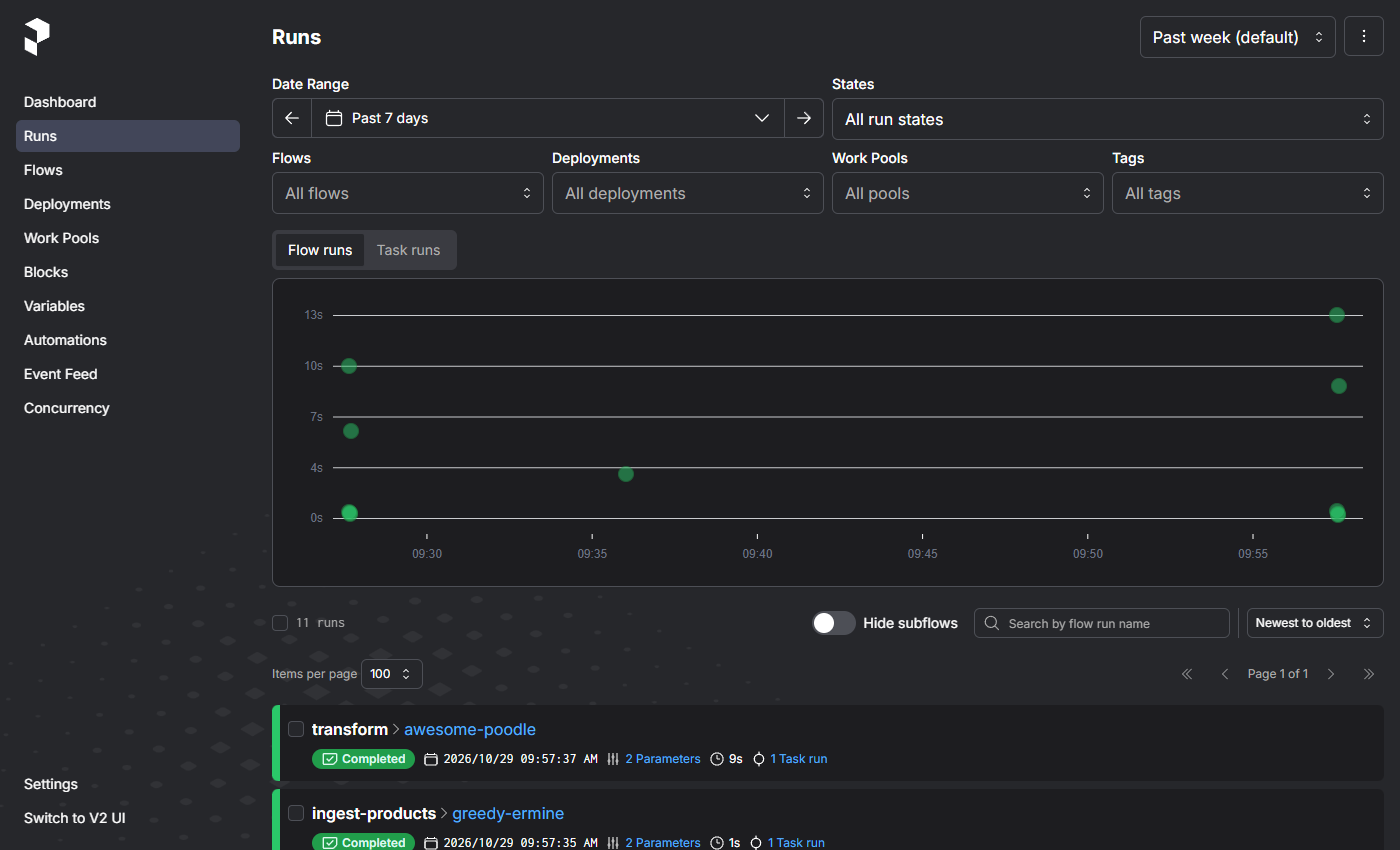
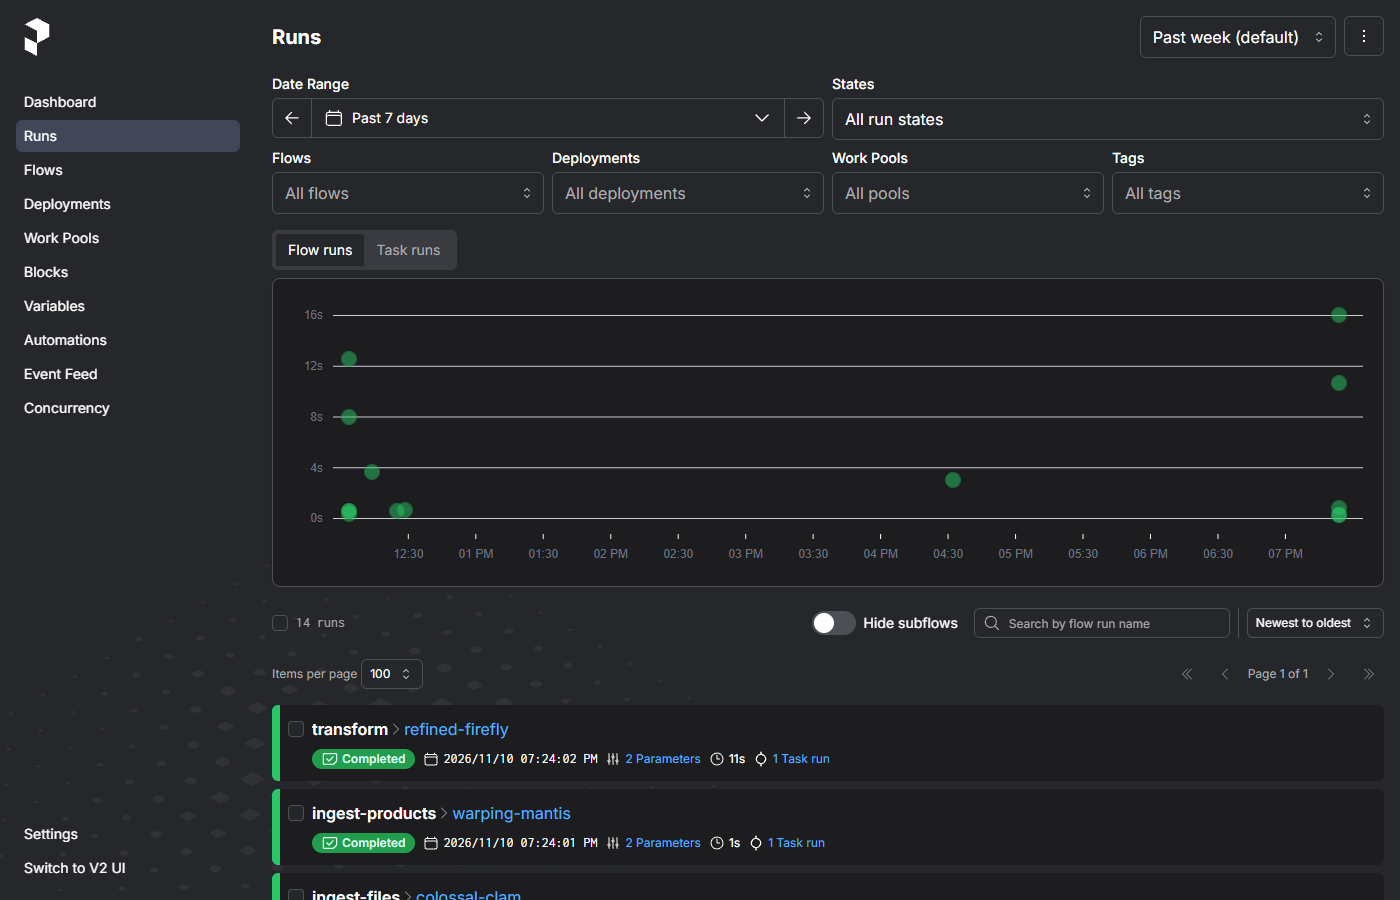
docs: evidencias nuevas del panel (GIF del mapa, lotes de ingesta, Prefect y Swagger)
- scripts/screenshots.py graba docs/img/dashboard-demo.gif: el puntero recorre
  el mapa y se dispara el flujo diario desde el panel.
- Captura nueva de ejecuciones, detalle y lotes; Prefect y Swagger regenerados.
- README: tabla de evidencias del rediseño.

diff --git a/scripts/screenshots.py b/scripts/screenshots.py
@@ -4,18 +4,28 @@ Requiere el stack levantado (scripts/demo.ps1). Usa el Edge o Chrome ya instalad
 
     uv run --with playwright python scripts/screenshots.py
 
+Además de las capturas graba docs/img/dashboard-demo.gif: el puntero recorre el mapa y, si el
+panel tiene la clave de administración, dispara el flujo diario.
+
 Falla si el mapa no se dibuja, si el CSS no llega a las tarjetas o si el brillo no sigue al
 puntero: así una actualización de Streamlit que cambie sus selectores no pasa inadvertida.
 """
 
 from __future__ import annotations
 
+import io
 import os
 from pathlib import Path
 
+from PIL import Image
 from playwright.sync_api import Page, sync_playwright
 
 URL = os.environ.get("DATAPULSE_E2E_DASHBOARD_URL", "http://127.0.0.1:8501")
+OTHERS = {
+    "prefect-runs": os.environ.get("DATAPULSE_E2E_PREFECT_URL", "http://127.0.0.1:4200") + "/runs",
+    "api-swagger": os.environ.get("DATAPULSE_E2E_API_URL", "http://127.0.0.1:8000") + "/docs",
+}
+GIF_WIDTH = 800
 OUT = Path(__file__).resolve().parents[1] / "docs" / "img"
 NODES = ("customers", "orders", "products", "validation", "raw", "dbt", "marts")
 CARD = '[data-testid="stMetric"]'
@@ -42,6 +52,45 @@ def verify(page: Page) -> None:
     check(opacity == "1", "el detalle del nodo no aparece al pasar el puntero")
 
 
+def record_demo(page: Page) -> None:
+    """GIF del mapa: el puntero pasa por cada nodo y después se dispara el flujo diario."""
+    area = page.locator(".st-key-dp-map")
+    area.evaluate("e => e.scrollIntoView({block: 'start'})")
+    frames: list[Image.Image] = []
+
+    def snap(count: int, pause_ms: int) -> None:
+        for _ in range(count):
+            page.wait_for_timeout(pause_ms)
+            shot = Image.open(io.BytesIO(area.screenshot())).convert("RGB")
+            frames.append(shot.resize((GIF_WIDTH, round(shot.height * GIF_WIDTH / shot.width))))
+
+    for key in NODES:
+        page.locator(f"svg.dp-map .n-{key} .box").hover(force=True)
+        snap(3, 250)
+    button = page.get_by_role("button", name="Ejecutar flujo diario")
+    if button.count():
+        button.click()
+        page.locator("svg.dp-map .n-dbt .box").hover(force=True)
+        snap(36, 500)
+    size = frames[0].size
+    # Paleta común: sin ella cada fotograma guarda la suya y el GIF pesa siete veces más.
+    palette = frames[-1].quantize(colors=128, dither=Image.Dither.NONE)
+    reduced = [
+        (f if f.size == size else f.resize(size)).quantize(
+            palette=palette, dither=Image.Dither.NONE
+        )
+        for f in frames
+    ]
+    reduced[0].save(
+        OUT / "dashboard-demo.gif",
+        save_all=True,
+        append_images=reduced[1:],
+        duration=350,
+        loop=0,
+        optimize=True,
+    )
+
+
 def main() -> None:
     with sync_playwright() as p:
         browser = p.chromium.launch(channel=os.environ.get("DATAPULSE_BROWSER", "msedge"))
@@ -56,6 +105,19 @@ def main() -> None:
             page.wait_for_timeout(2500)  # los gráficos de Vega terminan de dibujarse
             page.mouse.move(0, 0)
             page.screenshot(path=OUT / f"dashboard-{name}.png")
+
+        # La pestaña Pipelines sigue abierta: ejecuciones, detalle y lotes de ingesta.
+        page.get_by_text("Ejecuciones recientes").evaluate(
+            "e => e.scrollIntoView({block: 'start'})"
+        )
+        page.wait_for_timeout(1500)
+        page.screenshot(path=OUT / "dashboard-lotes.png")
+        record_demo(page)
+        for name, url in OTHERS.items():
+            other = browser.new_page(viewport={"width": 1400, "height": 900})
+            other.goto(url)
+            other.wait_for_timeout(4000)
+            other.screenshot(path=OUT / f"{name}.png")
 
         # Con movimiento reducido las animaciones se apagan.
         calm = browser.new_page(reduced_motion="reduce")

diff --git a/README.md b/README.md
@@ -29,12 +29,17 @@ verificar está en [Limitaciones conocidas](#limitaciones-conocidas).
 
 ## Capturas
 
-![Mapa del pipeline](docs/img/dashboard-mapa.png)
+![Mapa del pipeline en movimiento](docs/img/dashboard-demo.gif)
 
-*Mapa del pipeline: cada flujo con el estado de su última ejecución, y la validación y los
-lotes con su acumulado. Una arista fluye solo si su etapa de origen tiene datos; al señalar
-un nodo se ve su detalle. Con la clave de
-administración, los botones disparan un flujo real y el mapa se actualiza solo.*
+*Grabación real del panel: el puntero recorre el mapa y se pulsa «Ejecutar flujo diario». Las
+tres fuentes terminan y dbt queda «en curso» sin recargar la página. Cada flujo muestra el
+estado de su última ejecución; la validación y los lotes, su acumulado. Una arista fluye solo
+si su etapa de origen tiene datos.*
+
+| Mapa del pipeline | Ejecuciones, detalle y lotes de ingesta |
+|:---:|:---:|
+| ![Mapa del pipeline](docs/img/dashboard-mapa.png) | ![Lotes de ingesta](docs/img/dashboard-lotes.png) |
+| Al señalar un nodo se ve su detalle y se encienden sus aristas | Cada lote con su huella SHA-256: un reenvío idéntico no crea lote |
 
 | Calidad de datos | Pipelines |
 |:---:|:---:|
@@ -45,6 +50,20 @@ administración, los botones disparan un flujo real y el mapa se actualiza solo.
 |:---:|:---:|
 | ![Prefect](docs/img/prefect-runs.png) | ![API](docs/img/api-swagger.png) |
 | Ejecuciones de los flujos `ingest-*` y `transform` | Endpoints de solo lectura con clave por consumidor |
+
+### Evidencias del rediseño del panel (2026-11-10)
+
+Todas las imágenes de esta sección salen de `scripts/screenshots.py` contra el stack levantado
+con `scripts/demo.ps1`; el script falla si el acabado visual no llega al navegador.
+
+| Comprobación | Resultado |
+|--------------|-----------|
+| [CI del PR #11](https://github.com/JuanSGarciaC/datapulse/pull/11) (lint y tipos, pruebas, seguridad, contrato, Docker) | 5 de 5 en verde |
+| Pruebas unitarias y de integración en CI | 286 pasan; cobertura 91 % (umbral 90 %) |
+| E2E contra el stack en Docker (Windows 11) | 5 de 5 |
+| Navegador real (Edge): mapa con 7 nodos, borde animado, brillo que sigue al puntero, detalle al señalar, movimiento reducido | Pasa |
+| Disparo desde el panel: botón → API → Prefect → worker → mapa | El mapa se actualiza solo, sin recargar |
+| Revisión de código independiente | Sin hallazgos graves ni de seguridad; los de gravedad media, corregidos |
 
 ## Arquitectura
 

diff --git a/docs/dashboard.md b/docs/dashboard.md
@@ -27,6 +27,8 @@ texto y color.
 - Al pasar el puntero (o el foco del teclado) por un nodo se ve su detalle y se encienden sus
   aristas.
 
+![Mapa del pipeline en movimiento](img/dashboard-demo.gif)
+
 ![Mapa del pipeline](img/dashboard-mapa.png)
 
 ### Disparar un pipeline desde el panel (opcional)
@@ -51,6 +53,7 @@ activa; `.env.example` la trae comentada. El motivo y los límites están en
 ![Negocio](img/dashboard-negocio.png)
 ![Calidad de datos](img/dashboard-calidad.png)
 ![Pipelines](img/dashboard-pipelines.png)
+![Ejecuciones, detalle y lotes de ingesta](img/dashboard-lotes.png)
 
 *Capturas con los datos sintéticos de `data/samples` tras dos ejecuciones del flujo diario.
 La ejecución con fallo es real: la primera vez la fuente de productos no era alcanzable, los
